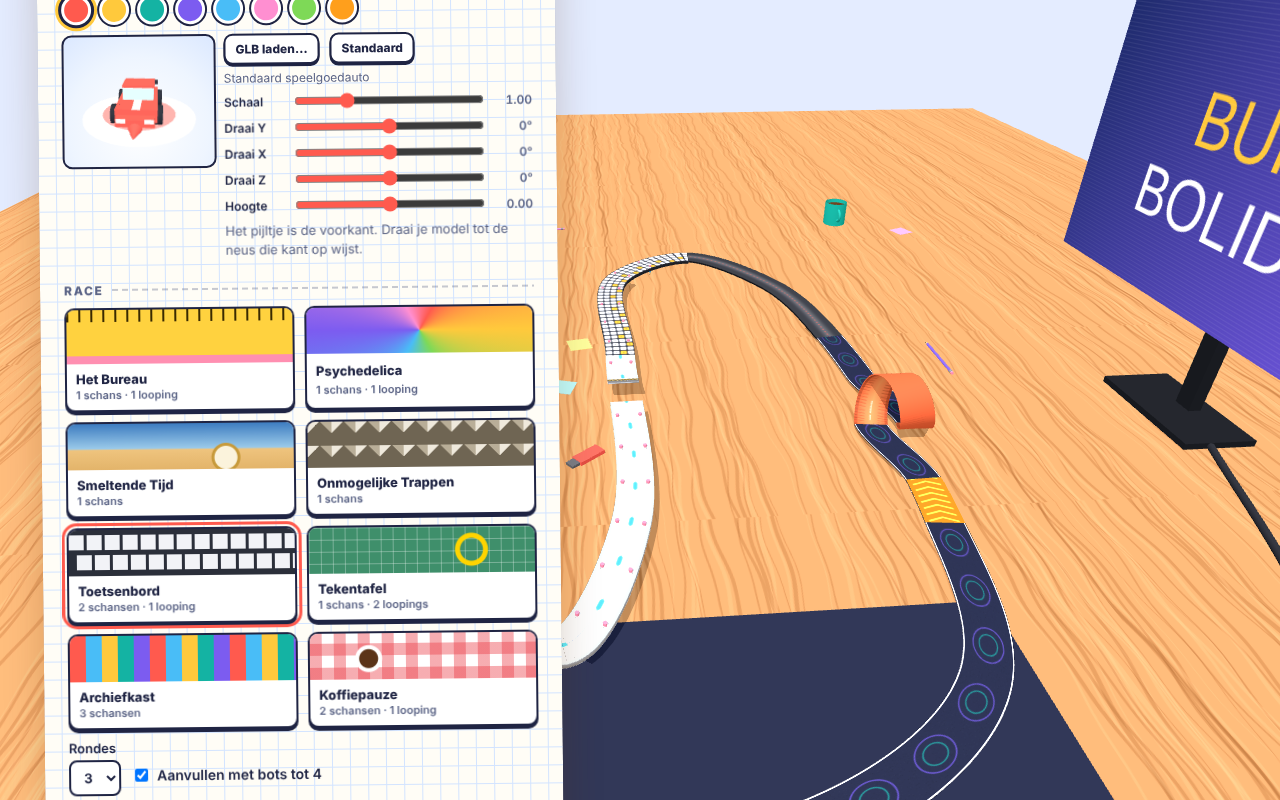
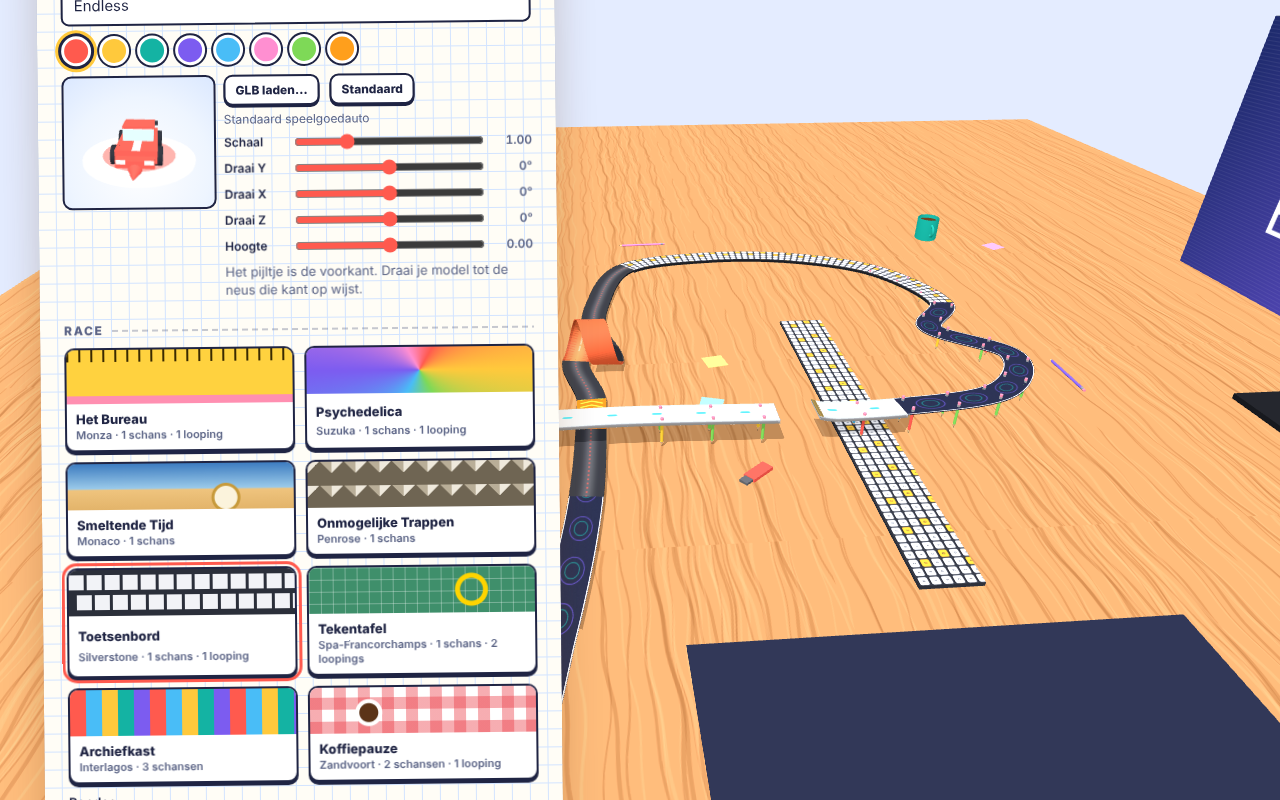
GP-circuits, rijden naast de baan en respawn in plaats van af
- Alle banen opnieuw uitgezet naar beroemde circuits (Monza, Suzuka,
  Monaco, Silverstone, Spa, Interlagos, Zandvoort) met eigen twists:
  schansen, loopings, hoogteverschillen en brug-kruisingen
- Naast de baan rijd je langzamer over bureau/vloer verder; R of na
  een paar seconden terug op de baan; afsnijden telt niet
- Alleen echte afgronden (bureaurand, Escher) laten je vallen; daarna
  respawn achter de plek waar het misging
- Decor schuift automatisch van de baan, geen pilaren door kruisingen
- README en screenshots bijgewerkt

Claude-Session: https://claude.ai/code/session_01NbUaQJ2w6SpyRCBNwXWAzY

diff --git a/index.html b/index.html
@@ -128,7 +128,7 @@ kbd{font-family:var(--body);font-weight:800;font-size:11px;border:2px solid var(
   <div class="hud-tl"><div id="hudPos">1<small>/4</small></div><div id="hudLap">RONDE 1/3</div><div id="hudTime">0:00.0</div></div>
   <ol id="hudList"></ol>
   <div class="hud-br"><span id="hudSpeed">0</span><small>km/u op schaal 1:64</small></div>
-  <div class="hud-bl"><kbd>C</kbd> camera · <kbd>M</kbd> geluid · <kbd>Esc</kbd> stoppen</div>
+  <div class="hud-bl"><kbd>C</kbd> camera · <kbd>R</kbd> terug · <kbd>M</kbd> geluid · <kbd>Esc</kbd> stoppen</div>
 </div>
 <div id="msg"><div id="msgBig"></div><div id="msgSmall"></div></div>
 <div id="toast" hidden></div>
@@ -154,7 +154,7 @@ kbd{font-family:var(--body);font-weight:800;font-size:11px;border:2px solid var(
 <div id="menu">
   <div class="card">
     <h1><span class="b1">Buro</span> <span class="b2">Bolides</span></h1>
-    <p class="tag">Racen met speelgoedautootjes over je bureau, met schansen en loopings op acht banen. Duw elkaar van de liniaal; wie van de baan rijdt is af, wie het eerst over de streep komt wint.</p>
+    <p class="tag">Racen met speelgoedautootjes over je bureau, met schansen en loopings op acht banen. Duw elkaar van de liniaal; naast de baan rijd je langzaam over het bureau, en wie in een afgrond valt komt een stuk terug weer op de baan. Wie het eerst over de streep komt wint.</p>
 
     <section aria-labelledby="h-car">
       <h2 id="h-car">Jouw bolide</h2>
@@ -224,9 +224,10 @@ kbd{font-family:var(--body);font-weight:800;font-size:11px;border:2px solid var(
         <kbd>← → / A D</kbd><span>Sturen</span>
         <kbd>Spatie</kbd><span>Handrem, driften en duwen</span>
         <kbd>C</kbd><span>Anamorfe blik of camera achter de auto</span>
+        <kbd>R</kbd><span>Naast de baan: terug op de baan</span>
         <kbd>Scroll</kbd><span>Inzoomen</span>
       </div>
-      <p class="muted" style="margin:0">Oranje pijlen geven een boost. Neem schansen met vaart, anders val je in het gat. In een looping heb je snelheid nodig om bovenin niet los te komen. De Escher-trap klopt alleen in de anamorfe blik: daar loopt hij eindeloos omhoog.</p>
+      <p class="muted" style="margin:0">Oranje pijlen geven een boost. Neem schansen met vaart, anders val je in het gat en sta je een stuk terug. In een looping heb je snelheid nodig om bovenin niet los te komen. De Escher-trap klopt alleen in de anamorfe blik: daar loopt hij eindeloos omhoog.</p>
     </section>
   </div>
 </div>
@@ -464,7 +465,8 @@ function buildTrackMeshes(T,L,group){
   if(k){get(k);const end=(b<M&&S[b].gap)?b-1:b;if(end>a)buildSlab(T,L,a,end,mats[k],group);}a=b;}
  T.mats=mats;
  const sStep=Math.max(1,Math.round((L.supportGap||14)/T.step));
- if(L.support)for(let j=0;j<M;j+=sStep){const s=S[j];if(s.gap||s.loop!=null)continue;const th=THEMES[L.themes[s.seg%L.themes.length]];const bot=s.p.y-th.thick;if(L.ground!=null&&bot-L.ground>.8)L.support(group,T,s,bot);}
+ const under=(s,j)=>{for(let k=0;k<M;k+=2){const d=Math.abs(k-j);if(Math.min(d,M-d)<30)continue;const q=S[k].p;if(q.y<s.p.y-2&&(q.x-s.p.x)**2+(q.z-s.p.z)**2<(T.hw*2+3)**2)return true;}return false;};
+ if(L.support)for(let j=0;j<M;j+=sStep){const s=S[j];if(s.gap||s.loop!=null||under(s,j))continue;const th=THEMES[L.themes[s.seg%L.themes.length]];const bot=s.p.y-th.thick;if(L.ground!=null&&bot-L.ground>.8)L.support(group,T,s,bot);}
  if(L.edgeDecor)for(let j=0;j<M;j+=Math.max(1,Math.round(5/T.step))){const s=S[j];if(s.gap||s.loop!=null)continue;L.edgeDecor(group,T,s,L.themes[s.seg%L.themes.length],j);}
  // finish, boostpads en schans-markering
  overlay(T,group,-1,2,new THREE.MeshStandardMaterial({map:canvasTex(256,64,drawFinish),roughness:.5,polygonOffset:true,polygonOffsetFactor:-2}),1);
@@ -482,6 +484,12 @@ function buildTrackMeshes(T,L,group){
  const banner=mesh(new THREE.BoxGeometry(T.hw*2+2.4,1.9,.25),[mat('#ffc93c'),mat('#ffc93c'),mat('#ffc93c'),mat('#ffc93c'),new THREE.MeshStandardMaterial({map:btex}),new THREE.MeshStandardMaterial({map:btex})],0,8.2,0);
  gate.add(banner);group.add(gate);
 }
+function declutter(group,T,from){const box=new THREE.Box3(),sz=V(),c=V();
+ for(let i=from;i<group.children.length;i++){const o=group.children[i];if(o.userData.keep)continue;box.setFromObject(o);if(box.isEmpty())continue;box.getSize(sz);box.getCenter(c);if(Math.max(sz.x,sz.z)>250)continue;
+  const r=Math.hypot(sz.x,sz.z)/2,y0=box.min.y,y1=box.max.y;
+  const hit=(x,z)=>{const rr=(r+T.hw+2)**2;for(let j=0;j<T.M;j+=2){const p=T.S[j].p;if((x-p.x)**2+(z-p.z)**2<rr&&y1>p.y-3.5&&y0<p.y+3)return true;}return false;};
+  if(!hit(c.x,c.z))continue;
+  let done=false;for(let rad=12;rad<300&&!done;rad+=12)for(let a=0;a<TAU&&!done;a+=TAU/20){const x=c.x+Math.cos(a)*rad,z=c.z+Math.sin(a)*rad;if(!hit(x,z)){o.position.x+=x-c.x;o.position.z+=z-c.z;done=true;}}}}
 function gapCenters(T){const out=[];let j=0;while(j<T.M){if(T.S[j].gap){let e=j;while(e<T.M&&T.S[e].gap)e++;const s=T.S[Math.floor((j+e)/2)];out.push({p:s.p.clone(),tan:s.tan.clone(),y:T.S[mod(j-1,T.M)].p.y,len:(e-j)*T.step});j=e;}else j++;}return out;}
 
 /* ---------- decor objects ---------- */
@@ -574,11 +582,11 @@ function buildDali(g,T,L){
  const sky=canvasTex(4,512,(c,w,h)=>{const gr=c.createLinearGradient(0,0,0,h);gr.addColorStop(0,'#2f6fb0');gr.addColorStop(.55,'#9ccbea');gr.addColorStop(1,'#ffd59a');c.fillStyle=gr;c.fillRect(0,0,w,h);},false);scene.background=sky;
  const st=canvasTex(256,256,drawSand);st.repeat.set(40,40);const ground=new THREE.Mesh(new THREE.PlaneGeometry(1200,1200),new THREE.MeshStandardMaterial({map:st,roughness:.95}));ground.rotation.x=-Math.PI/2;ground.receiveShadow=true;g.add(ground);
  // kliffen in de verte
- const R=rng(5);for(let i=0;i<9;i++){const m=mesh(new THREE.DodecahedronGeometry(20+R()*25,0),mat(['#d98a4a','#c4703a','#e9a35d'][i%3],{flatShading:true,roughness:.9}),180+R()*120,0,-260+i*50-R()*20);m.scale.set(1.4,.6+R()*.7,1);g.add(m);}
+ const R=rng(5);for(let i=0;i<9;i++){const m=mesh(new THREE.DodecahedronGeometry(20+R()*25,0),mat(['#d98a4a','#c4703a','#e9a35d'][i%3],{flatShading:true,roughness:.9}),320+R()*120,0,-260+i*50-R()*20);m.scale.set(1.4,.6+R()*.7,1);g.add(m);}
  const clocks=[];
  // sokkels met smeltende klokken (binnen de lus, laag)
  [[-12,-8],[22,10],[-38,8]].forEach((p,i)=>{const pl=mesh(new THREE.BoxGeometry(10,4+i,8),mat('#d9b27c',{roughness:.85}),p[0],(4+i)/2,p[1]);g.add(pl);const c=makeMeltingClock(12,-20,2,1.2);c.mesh.position.set(p[0]+3,4+i+.05,p[1]);c.mesh.rotation.y=i*.7;g.add(c.mesh);clocks.push(c);});
- gapCenters(T).forEach(gc=>{const pl=mesh(new THREE.BoxGeometry(7,1,7),mat('#d9b27c',{roughness:.85}),gc.p.x,.5,gc.p.z);g.add(pl);const c=makeMeltingClock(10,-3.5,3.5,1);c.mesh.position.set(gc.p.x,1.05,gc.p.z);c.mesh.rotation.y=Math.atan2(gc.tan.x,gc.tan.z);g.add(c.mesh);clocks.push(c);});
+ gapCenters(T).forEach(gc=>{const pl=mesh(new THREE.BoxGeometry(7,1,7),mat('#d9b27c',{roughness:.85}),gc.p.x,.5,gc.p.z);pl.userData.keep=true;g.add(pl);const c=makeMeltingClock(10,-3.5,3.5,1);c.mesh.position.set(gc.p.x,1.05,gc.p.z);c.mesh.rotation.y=Math.atan2(gc.tan.x,gc.tan.z);c.mesh.userData.keep=true;g.add(c.mesh);clocks.push(c);});
  // dode boom met klok over de tak
  const tree=new THREE.Group();tree.position.set(170,0,-110);tree.add(mesh(new THREE.CylinderGeometry(.9,1.6,20,8),mat('#5b3b22',{roughness:.95}),0,10,0));const br=mesh(new THREE.CylinderGeometry(.45,.7,16,7),mat('#5b3b22'),-6,18,0);br.rotation.z=Math.PI/2.3;tree.add(br);
  const tc=makeMeltingClock(9,-.7,.7,.9);tc.mesh.position.set(-7,19.4,0);tc.mesh.rotation.y=Math.PI/2;tree.add(tc.mesh);clocks.push(tc);g.add(tree);
@@ -589,12 +597,12 @@ function buildDali(g,T,L){
   e.add(mesh(new THREE.BoxGeometry(3,10,3),mat('#e9a35d'),0,legH+13,0));e.position.set(x,0,z);e.rotation.y=ry;g.add(e);};
  ele(170,-170,-.8);ele(230,-120,-1.2);
  // staande klok met slinger over de baan
- buildGrandfather(g,T,6);
+ buildGrandfather(g,T,L.tunnelSeg||6);
  L._dali={clocks};
 }
 function buildGrandfather(g,T,segIdx){
  const js=[];for(let j=0;j<T.M;j++)if(T.S[j].seg===segIdx)js.push(j);const s=T.S[js[Math.floor(js.length/2)]];const p=s.p;
- const root=new THREE.Group();root.position.set(p.x,0,p.z);root.rotation.y=Math.atan2(s.tan.x,s.tan.z);g.add(root);
+ const root=new THREE.Group();root.userData.keep=true;root.position.set(p.x,0,p.z);root.rotation.y=Math.atan2(s.tan.x,s.tan.z);g.add(root);
  const wood=mat('#8a3f22',{roughness:.5,transparent:true}),gold=mat('#e3b33d',{metalness:.6,roughness:.3,transparent:true});const fade=[wood,gold];
  const px=T.hw+1.7;for(const sx of[-1,1]){root.add(mesh(new THREE.BoxGeometry(2.8,24,6),wood,sx*px,12,0));root.add(mesh(new THREE.BoxGeometry(3.4,1.2,6.6),gold,sx*px,.6,0));}
  root.add(mesh(new THREE.BoxGeometry(2*px+4,10,7),wood,0,29,0));root.add(mesh(new THREE.BoxGeometry(2*px+5,1.2,8),gold,0,34.6,0));
@@ -692,8 +700,8 @@ function makeCookie(r=4,col='#e9b86a'){const m=mesh(new THREE.CylinderGeometry(r
 function buildKoffie(g,T,L){
  const gt=canvasTex(256,256,drawGingham);gt.repeat.set(24,18);const fl=new THREE.Mesh(new THREE.PlaneGeometry(900,640),new THREE.MeshStandardMaterial({map:gt,roughness:.95}));fl.rotation.x=-Math.PI/2;fl.receiveShadow=true;g.add(fl);
  const gcs=gapCenters(T);
- if(gcs[0]){const mug=shadowAll(makeMug());mug.position.set(gcs[0].p.x,0,gcs[0].p.z);mug.rotation.y=Math.atan2(gcs[0].tan.x,gcs[0].tan.z);g.add(mug);}
- if(gcs[1]){for(let k=0;k<3;k++){const w=new THREE.Mesh(new THREE.CylinderGeometry(6,6,.8,32),[mat('#c9853f'),new THREE.MeshStandardMaterial({map:themeTex('waffle')}),new THREE.MeshStandardMaterial({map:themeTex('waffle')})]);w.position.set(gcs[1].p.x+(k-1)*.6,.4+k*.85,gcs[1].p.z);w.castShadow=w.receiveShadow=true;g.add(w);}}
+ if(gcs[0]){const mug=shadowAll(makeMug());mug.position.set(gcs[0].p.x,0,gcs[0].p.z);mug.rotation.y=Math.atan2(gcs[0].tan.x,gcs[0].tan.z);mug.userData.keep=true;g.add(mug);}
+ if(gcs[1]){for(let k=0;k<3;k++){const w=new THREE.Mesh(new THREE.CylinderGeometry(6,6,.8,32),[mat('#c9853f'),new THREE.MeshStandardMaterial({map:themeTex('waffle')}),new THREE.MeshStandardMaterial({map:themeTex('waffle')})]);w.position.set(gcs[1].p.x+(k-1)*.6,.4+k*.85,gcs[1].p.z);w.castShadow=w.receiveShadow=true;w.userData.keep=true;g.add(w);}}
  const tp=new THREE.Group();tp.position.set(175,0,-120);const tm=mat('#14b3a3',{roughness:.3});const body=mesh(new THREE.SphereGeometry(14,28,20),tm,0,13,0);body.scale.y=.85;tp.add(body);
  const sp=mesh(new THREE.CylinderGeometry(1.2,2.4,14,12),tm,-15,16,0);sp.rotation.z=.9;tp.add(sp);const hd=mesh(new THREE.TorusGeometry(6,1.3,10,20,Math.PI*1.3),tm,14,15,0);hd.rotation.z=-Math.PI*.65;tp.add(hd);
  tp.add(mesh(new THREE.SphereGeometry(2,14,10),mat('#ffc93c'),0,26,0));shadowAll(tp);g.add(tp);
@@ -704,31 +712,31 @@ function buildKoffie(g,T,L){
 }
 
 const LEVELS=[
- {key:'desk',name:'Het Bureau',width:10,ground:0,zoom:50,bg:'#ffe6c4',hemi:['#fff6e8','#c99a63',.85],sunI:.95,supportGap:16,
-  pts:[[-60,70,.35],[-10,70,.35,{loop:7.5,at:40}],[70,70,.35],[110,55,1.2],[132,20,2.2],[132,-20,2.2],[116,-56,3.5],[80,-76,4.5,{jump:11,at:15}],[20,-76,3],[-20,-76,1],[-62,-62,.4],[-96,-32,.12],[-112,5,.12],[-102,40,.12],[-86,64,.35]],
-  themes:['ruler','ruler','ruler','eraser','calc','calc','geo','tape','tape','checker','checker','coaster','news','notebook','ruler'],build:buildDesk,support:deskSupport},
- {key:'psy',name:'Psychedelica',width:10,ground:-3,zoom:58,bg:'#ffd6f5',hemi:['#ffffff','#b48cff',.95],sunI:.75,loopTheme:'psyB',supportGap:16,
-  pts:[[-60,-60,2],[-25,-25,5,{jump:13,at:29}],[25,25,9.5],[60,60,13],[95,85,13],[140,72,11],[162,28,9],[152,-30,7],[118,-70,4.5],[78,-78,2.5],[40,-40,2],[-10,10,2],[-75,75,2],[-120,85,2],[-160,58,2,{loop:8,at:40}],[-160,-22,2],[-135,-62,2],[-98,-78,2]],
+ {key:'desk',gp:'Monza',name:'Het Bureau',width:10,ground:0,zoom:50,bg:'#ffe6c4',hemi:['#fff6e8','#c99a63',.85],sunI:.95,supportGap:16,
+  pts:[[-150,90,0.35],[-150,40,0.35,{loop:8,at:40}],[-150,-75,0.35],[-148,-102,0.35],[-132,-114,0.35],[-128,-134,0.35],[-105,-160,1],[-55,-175,1.5],[-10,-172,2],[5,-162,2],[20,-174,2],[60,-168,2.5],[90,-140,3],[100,-100,4],[102,-30,6,{jump:12,at:22}],[100,40,4],[92,70,3],[106,90,2.5],[85,112,2],[40,120,1.5],[-40,125,4],[-95,140,7],[-135,125,5],[-150,112,1.5]],
+  themes:['ruler','ruler','ruler','eraser','eraser','eraser','calc','calc','geo','geo','geo','tape','tape','checker','checker','checker','coaster','coaster','news','news','notebook','notebook','ruler','ruler'],build:buildDesk,support:deskSupport},
+ {key:'psy',gp:'Suzuka',name:'Psychedelica',width:10,ground:-3,groundSize:[1000,1000],zoom:58,bg:'#ffd6f5',hemi:['#ffffff','#b48cff',.95],sunI:.75,loopTheme:'psyB',supportGap:16,
+  pts:[[-95,85,3],[-125,85,3,{loop:8,at:35}],[-215,85,3],[-245,66,3.5],[-256,30,4],[-234,0,5],[-250,-30,6],[-228,-58,7],[-242,-88,8],[-214,-118,8.5],[-168,-128,8],[-125,-112,6],[-70,-72,3.5],[-20,-36,3],[30,0,3],[70,30,3.5],[105,60,4],[135,45,4.5],[150,10,6],[148,-40,8],[125,-85,10],[90,-95,11],[60,-70,12,{jump:12,at:68}],[-5,25,10],[-28,50,7],[-48,66,5],[-70,78,4]],
   themes:['psyA','psyB','psyC'],build:buildPsy,support:psySupport,update:updPsy},
- {key:'dali',name:'Smeltende Tijd',width:10,ground:0,zoom:54,bg:'#9ccbea',hemi:['#fff2d8','#d9a35d',.8],sunI:1.05,supportGap:14,
-  pts:[[-55,70,.6],[30,72,.6],[95,58,1.5],[130,18,3],[125,-35,4],[85,-75,2.5],[20,-85,.6],[-50,-85,.6],[-105,-60,2],[-135,-15,3,{jump:11,at:18}],[-135,45,1.5],[-110,70,1]],
-  themes:['path','clock','branch','clock','path','path','path','branch','clock','path','clock','path'],build:buildDali,support:daliSupport,edgeDecor:daliEdge,update:updDali},
- {key:'escher',name:'Onmogelijke Trappen',width:10,ground:null,zoom:60,bg:'#e9e1cf',hemi:['#fffaf0','#8e8676',.9],sunI:.8,D:[-12,12,12],
+ {key:'dali',gp:'Monaco',tunnelSeg:16,name:'Smeltende Tijd',width:10,ground:0,groundSize:[1200,1200],zoom:54,bg:'#9ccbea',hemi:['#fff2d8','#d9a35d',.8],sunI:1.05,supportGap:14,
+  pts:[[-80,90,0.6],[-20,92,0.6],[25,86,0.6],[48,62,1.2],[55,25,2.5],[45,-12,4],[58,-48,5],[92,-58,4.5],[115,-35,3.5],[112,0,2.5],[118,28,2],[138,38,2],[152,15,2],[150,-15,2.2],[168,-35,2.5],[190,-20,2.2],[195,20,1.6],[195,110,0.8],[185,140,0.6],[165,150,0.6],[140,162,0.6],[100,162,0.6,{jump:11,at:14}],[30,162,0.6],[10,150,0.6],[-20,160,0.6],[-75,158,0.6],[-100,130,0.6],[-105,100,0.6]],
+  themes:['path','path','path','clock','clock','branch','branch','branch','clock','clock','branch','branch','branch','path','path','path','path','clock','path','path','path','path','path','clock','clock','path','path','path'],build:buildDali,support:daliSupport,edgeDecor:daliEdge,update:updDali},
+ {key:'escher',gp:'Penrose',name:'Onmogelijke Trappen',width:10,ground:null,zoom:60,bg:'#e9e1cf',hemi:['#fffaf0','#8e8676',.9],sunI:.8,D:[-12,12,12],
   pts:(()=>{const B=[[0,62],[30,62],[56,56],[62,30],[62,0],[62,-30],[56,-56],[30,-62],[0,-62],[-30,-62],[-56,-56],[-62,-30],[-62,0],[-62,30],[-56,56],[-30,62]];const N=B.length,D=[-12,12,12];
    return B.map((b,i)=>{const p=[b[0]+D[0]*i/N,b[1]+D[2]*i/N,8+D[1]*i/N];if(i===3)p.push({jump:9,at:18});return p;});})(),
   themes:['stairs'],build:buildEscher,update:updEscher},
- {key:'keys',name:'Toetsenbord',width:10,ground:0,zoom:52,bg:'#e4ecff',hemi:['#f4f8ff','#8a7a66',.9],sunI:.9,supportGap:16,
-  pts:[[-90,76,1.5],[-40,76,1.5,{jump:11,at:16}],[50,76,1.5],[100,68,1.5],[132,35,2],[132,-25,2],[105,-68,2],[55,-80,2,{loop:8,at:42}],[-45,-80,2],[-95,-68,2.5],[-125,-38,3.5],[-100,-5,5],[-30,-2,6,{jump:10,at:20}],[55,0,5],[92,17,4.5],[60,36,4],[-60,36,3],[-115,50,2],[-112,72,1.5]],
-  themes:['keys','keys','keys','keys','pad','pad','pad','pad','cable','cable','keys','keys','mouse','mouse','pad','keys','keys','keys','keys'],build:buildKeys,support:deskSupport},
- {key:'draw',name:'Tekentafel',width:10,ground:0,zoom:52,bg:'#e8f1fb',hemi:['#ffffff','#7da0c9',.9],sunI:.9,loopTheme:'rolmaat',supportGap:16,
-  pts:[[-95,62,.3],[-45,62,.3,{loop:8,at:32}],[60,62,.3],[112,45,.3],[140,5,.5],[132,-40,1.5],[98,-70,2.5],[40,-82,3,{jump:11,at:14}],[-35,-82,1.5],[-90,-72,.5],[-132,-35,.3],[-132,5,.3,{loop:8,at:0}],[-132,45,.3]],
-  themes:['blue','blue','rolmaat','blue','blue','blue','ruler','ruler','blue','blue','rolmaat','rolmaat','blue'],build:buildDraw,support:deskSupport},
- {key:'arch',name:'Archiefkast',width:10,ground:0,zoom:58,bg:'#dfe6f2',hemi:['#ffffff','#5d6c8a',.85],sunI:.95,supportGap:9,
-  pts:[[-90,55,8],[-40,55,8,{jump:12,at:16}],[50,55,7],[100,40,7],[126,0,9],[110,-42,11],[70,-62,12,{jump:13,at:12,kick:.4}],[-10,-64,10],[-62,-60,8],[-100,-40,6],[-122,-12,5,{jump:10,at:12}],[-118,40,6]],
-  themes:['binder','binder','binder','binder','metal','binder','metal','binder','binder','binder','binder','binder'],build:buildArch,support:binderSupport},
- {key:'koffie',name:'Koffiepauze',width:10,ground:0,zoom:54,bg:'#fff1e0',hemi:['#fff8ee','#c98d4f',.9],sunI:1,loopTheme:'metal',supportGap:12,
-  pts:[[-90,62,8],[-30,62,13,{jump:12,at:20}],[60,62,12],[110,42,10],[132,2,8],[115,-45,6],[75,-78,4],[15,-78,3,{loop:7.5,at:0}],[-45,-78,3],[-95,-62,4],[-125,-25,5,{jump:10,at:14}],[-125,35,6]],
-  themes:['napkin','waffle','waffle','waffle','biscuit','biscuit','metal','metal','napkin','napkin','waffle','napkin'],build:buildKoffie,support:sugarSupport},
+ {key:'keys',gp:'Silverstone',name:'Toetsenbord',width:10,ground:0,zoom:52,bg:'#e4ecff',hemi:['#f4f8ff','#8a7a66',.9],sunI:.9,supportGap:16,
+  pts:[[-80,110,1.5],[-30,110,1.5],[30,110,1.5],[60,118,1.5],[90,110,1.5],[118,118,1.8],[132,95,2],[112,78,2],[80,70,2],[30,62,2],[-50,58,2,{loop:8,at:0}],[-100,55,2],[-140,40,2.5],[-150,0,3],[-145,-40,3.5],[-125,-75,4],[-85,-90,5],[-60,-75,6],[-35,-95,7],[-10,-80,8],[0,-40,9,{jump:11,at:30}],[0,60,10],[2,120,8],[10,160,4],[-20,180,2.5],[-60,180,2],[-90,170,2],[-110,140,1.5],[-105,115,1.5]],
+  themes:['keys','keys','keys','keys','keys','pad','pad','pad','pad','cable','cable','cable','keys','keys','keys','keys','pad','pad','pad','pad','mouse','mouse','mouse','keys','keys','keys','keys','keys','keys'],build:buildKeys,support:deskSupport},
+ {key:'draw',gp:'Spa-Francorchamps',name:'Tekentafel',width:10,ground:0,zoom:52,bg:'#e8f1fb',hemi:['#ffffff','#7da0c9',.9],sunI:.9,loopTheme:'rolmaat',supportGap:16,
+  pts:[[-150,70,0.3],[-150,10,0.3],[-152,-28,0.3],[-136,-50,0.3],[-118,-32,0.5],[-112,5,0.3],[-104,38,0.3],[-86,52,2],[-62,38,6,{jump:11,at:12}],[-5,30,8],[50,30,9,{loop:8,at:5}],[125,30,10],[160,45,10],[170,75,9],[192,95,8.5],[205,130,8],[182,145,7.5],[150,110,7],[118,118,6],[100,150,5],[78,178,4],[40,192,2.5],[-10,194,0.3,{loop:8,at:25}],[-100,190,0.3],[-128,178,0.3],[-138,165,0.3],[-128,152,0.3],[-148,128,0.3]],
+  themes:['blue','blue','blue','blue','blue','blue','blue','ruler','ruler','rolmaat','rolmaat','rolmaat','blue','blue','blue','blue','blue','blue','blue','blue','blue','blue','rolmaat','blue','blue','blue','blue','blue'],build:buildDraw,support:deskSupport},
+ {key:'arch',gp:'Interlagos',name:'Archiefkast',width:10,ground:0,zoom:58,bg:'#dfe6f2',hemi:['#ffffff','#5d6c8a',.85],sunI:.95,supportGap:9,
+  pts:[[60,-110,11],[0,-115,12,{jump:12,at:20}],[-60,-110,12],[-95,-95,10],[-102,-62,8.5],[-122,-32,7.5],[-112,18,6.5],[-80,58,6],[-30,75,6],[40,76,6,{jump:13,at:15,kick:0.4}],[125,72,6],[158,45,6.5],[162,5,7],[138,-22,7.5],[98,-18,8],[70,10,8],[30,30,7],[-5,15,6.5],[-15,-15,7],[15,-35,8,{jump:10,at:20}],[70,-50,9],[110,-70,10],[115,-100,10.5]],
+  themes:['binder','metal','binder','binder','binder','binder','binder','binder','binder','metal','binder','binder','binder','binder','binder','binder','binder','binder','binder','metal','binder','binder','binder'],build:buildArch,support:binderSupport},
+ {key:'koffie',gp:'Zandvoort',name:'Koffiepauze',width:10,ground:0,zoom:54,bg:'#fff1e0',hemi:['#fff8ee','#c98d4f',.9],sunI:1,loopTheme:'metal',supportGap:12,
+  pts:[[-120,80,12],[-70,80,13,{jump:12,at:24}],[20,80,12.5,{loop:8,at:35}],[100,80,12],[132,60,12],[118,35,11.5],[80,38,11],[40,25,10],[-30,22,8.5],[-80,30,7.5],[-102,10,7],[-85,-12,7],[-30,-15,8],[20,-20,10],[70,-45,13],[80,-80,15],[45,-105,15],[0,-100,15],[-60,-90,14,{jump:11,at:20}],[-130,-70,12],[-160,-30,11],[-160,20,11],[-145,60,11.5]],
+  themes:['napkin','waffle','waffle','napkin','biscuit','biscuit','waffle','waffle','napkin','napkin','biscuit','biscuit','napkin','napkin','waffle','waffle','waffle','waffle','metal','napkin','napkin','napkin','napkin'],build:buildKoffie,support:sugarSupport},
 ];
 LEVELS.forEach(L=>{L.jumps=L.pts.filter(p=>p[3]&&p[3].jump).length;L.loops=L.pts.filter(p=>p[3]&&p[3].loop).length;});
 
@@ -739,7 +747,7 @@ function loadLevel(i){
  if(levelGroup){scene.remove(levelGroup);disposeGroup(levelGroup);}
  obstacles=[];const L=LEVELS[i];level=L;levelIdx=i;levelGroup=new THREE.Group();scene.add(levelGroup);
  scene.background=new THREE.Color(L.bg);hemi.color.set(L.hemi[0]);hemi.groundColor.set(L.hemi[1]);hemi.intensity=L.hemi[2];sun.intensity=L.sunI;
- track=buildTrack(L);buildTrackMeshes(track,L,levelGroup);L.build(levelGroup,track,L);
+ track=buildTrack(L);buildTrackMeshes(track,L,levelGroup);const n0=levelGroup.children.length;L.build(levelGroup,track,L);declutter(levelGroup,track,n0);
 }
 
 /* =========================================================
@@ -765,7 +773,7 @@ const ST=['run','fall','out','fin'];
 class Car{
  constructor(r,local,slot){
   Object.assign(this,{id:r.id,name:r.name,color:r.color,bot:!!r.bot,local,slot});
-  this.pos=V();this.vel=V();this.yaw=0;this.y=0;this.ty=0;this.vy=0;this.speed=0;this.lap=0;this.cp=true;this.state='run';this.lat=0;this.slope=0;this.slopeF=0;this.pitch=0;this.fallT=0;this.finT=0;this.spin=0;this.mode='ground';this.boost=0;this.airT=0;this.relYaw=0;this.ls=0;this.loopId=0;this.LF=null;
+  this.pos=V();this.vel=V();this.yaw=0;this.y=0;this.ty=0;this.vy=0;this.speed=0;this.lap=0;this.cp=true;this.state='run';this.lat=0;this.slope=0;this.slopeF=0;this.pitch=0;this.fallT=0;this.finT=0;this.spin=0;this.mode='ground';this.off=false;this.offJ=null;this.offD=0;this.offT=0;this.nearJ=0;this.boost=0;this.airT=0;this.relYaw=0;this.ls=0;this.loopId=0;this.LF=null;
   this.skill=.86+Math.random()*.1;this.aggr=Math.random()<.55?.65:0;this.lane=0;this.laneT=0;
   const T=track,row=Math.floor(slot/2),col=slot%2;const j=-(5+row*6+(col?2:0));const p=sampleP(T.S,j,T.M,T.D),s=T.S[mod(j,T.M)];const lat=(col?1:-1)*T.hw*.42;
   this.pos.set(p.x+s.r.x*lat,0,p.z+s.r.z*lat);this.y=this.ty=p.y;this.j=j;this.yaw=Math.atan2(s.tan.x,s.tan.z);
@@ -782,13 +790,42 @@ const G_AIR=30,G_LOOP=30,BOOST_T=1.6;
 const _m4=new THREE.Matrix4(),_q=new THREE.Quaternion(),_Y=V(0,1,0);
 function frameAt(si){const T=track;const i=Math.floor(si),f=si-i;const A=T.S[mod(i,T.M)],B=T.S[mod(i+1,T.M)];
  return{p:sampleP(T.S,i,T.M,T.D).lerp(sampleP(T.S,i+1,T.M,T.D),f),T:A.T.clone().lerp(B.T,f).normalize(),U:A.U.clone().lerp(B.U,f).normalize(),R:A.R.clone().lerp(B.R,f).normalize()};}
+function snapFin(car){const T=track;let j=car.j;while(T.S[mod(j,T.M)].gap||T.S[mod(j,T.M)].loop!=null)j++;const p=sampleP(T.S,j,T.M,T.D),s=T.S[mod(j,T.M)];
+ car.j=j;car.pos.set(p.x,0,p.z);car.y=car.ty=p.y;car.vy=0;car.mode='ground';car.off=false;car.snap=true;car.yaw=Math.atan2(s.tan.x,s.tan.z);car.vel.set(0,0,0);}
+// afgrond: echt niets onder je -> val en respawn
 function failCar(car,why,vy=2){
- if(car.state==='fin'){const T=track;let j=car.j;while(T.S[mod(j,T.M)].gap||T.S[mod(j,T.M)].loop!=null)j++;const p=sampleP(T.S,j,T.M,T.D),s=T.S[mod(j,T.M)];
-  car.j=j;car.pos.set(p.x,0,p.z);car.y=car.ty=p.y;car.vy=0;car.mode='ground';car.snap=true;car.yaw=Math.atan2(s.tan.x,s.tan.z);car.vel.set(0,0,0);return;}
- car.state='fall';car.mode='ground';car.vy=vy;car.fallT=0;car.why=why;if(car===myCar)sfxFall();}
+ if(car.state==='fin'){snapFin(car);return;}
+ car.state='fall';car.mode='ground';car.off=false;car.vy=vy;car.fallT=0;car.why=why;if(car===myCar)sfxFall();}
+// ondergrond naast de baan (bureau, vloer, tafelkleed); null = afgrond
+function groundAt(x,z){const L=level;if(L.ground==null)return null;const gs=L.groundSize||[900,640];if(Math.abs(x)>gs[0]/2||Math.abs(z)>gs[1]/2)return null;return L.ground;}
+function leaveTrack(car){if(car.state==='fin'){snapFin(car);return;}
+ if(car.offJ==null)car.offJ=car.j;car.offD=0;car.offT=0;const gy=groundAt(car.pos.x,car.pos.z);
+ if(gy!=null&&car.y-gy<=.7){car.off=true;car.y=car.ty=gy;}else{car.mode='air';car.vy=Math.min(car.vy||0,0);car.airT=0;}}
+function respawnJ(j){const T=track;let k=j;const s=T.S[mod(k,T.M)];
+ if(s.loop!=null)k=T.loops[s.loop].a-Math.round(60/T.step);
+ else if(s.gap){while(T.S[mod(k,T.M)].gap)k--;k-=Math.round(20/T.step);}
+ while(T.S[mod(k,T.M)].gap||T.S[mod(k,T.M)].loop!=null||T.S[mod(k,T.M)].lip)k--;return k;}
+function respawnCar(car,msgBig){const T=track;const k=respawnJ(car.offJ!=null?car.offJ:car.j);const p=sampleP(T.S,k,T.M,T.D),s=T.S[mod(k,T.M)];
+ car.state='run';car.mode='ground';car.off=false;car.offJ=null;car.j=k;car.pos.set(p.x,0,p.z);car.y=car.ty=p.y;car.vy=0;car.vel.set(0,0,0);car.speed=0;car.boost=0;car.spin=0;car.pitch=0;car.LF=null;
+ car.yaw=Math.atan2(s.tan.x,s.tan.z);car.lat=0;car.snap=true;car.inv=2;car.fallT=0;
+ if(car===myCar){showMsg(msgBig||'AFGROND!',(car.why||'Je viel in het niets')+' · terug op de baan',1800);shake=.3;}}
+function offroadFollow(car,dt){const T=track;car.offT+=dt;car.offD+=Math.abs(car.speed)*dt;
+ const gy=groundAt(car.pos.x,car.pos.z);
+ if(gy==null){car.off=false;car.mode='air';car.vy=0;car.airT=0;return;}
+ car.y=car.ty=gy;car.slopeF=0;car.pitch=0;
+ let best=0,bd=1e18;for(let j=0;j<T.M;j++){const p=T.S[j].p;const dx=car.pos.x-p.x,dz=car.pos.z-p.z,dy=(p.y-gy)*1.5;const d=dx*dx+dz*dz+dy*dy;if(d<bd){bd=d;best=j;}}
+ car.nearJ=best;const s=T.S[best];
+ if(!s.gap&&s.loop==null&&!s.lip){const lat=(car.pos.x-s.p.x)*s.r.x+(car.pos.z-s.p.z)*s.r.z;
+  if(Math.abs(lat)<=T.hw-.3&&s.p.y-gy<=1.1){const M=T.M;const jn=best+Math.round((car.offJ-best)/M)*M;
+   if(jn-car.offJ>car.offD/T.step+25){car.why='Afsnijden telt niet';respawnCar(car,'AFGESNEDEN!');return;}
+   const oK=Math.floor(car.offJ/M),nK=Math.floor(jn/M);if(nK>oK&&car.cp){car.lap++;car.cp=false;onLap(car);}else if(nK<oK){car.lap=Math.max(0,car.lap-1);car.cp=true;}
+   car.off=false;car.offJ=null;car.j=jn;car.lat=lat;car.y=car.ty=s.p.y;car.snap=true;return;}}
+ if(car.offT>(car.bot?3:6)){car.why='Te lang naast de baan';respawnCar(car,'TERUG!');}
+}
 function stepCar(car,inp,dt){
+ if(car.inv>0)car.inv-=dt;
  if(car.state==='fall'){car.vy-=42*dt;car.pos.x+=car.vel.x*dt;car.pos.z+=car.vel.z*dt;car.y+=car.vy*dt;car.fallT+=dt;car.spin+=dt*6;
-  if(car.fallT>1.5){car.state='out';car.outProg=progress(car);if(car===myCar)showMsg('AF!',car.why||'Je bent van de baan gereden',2400);}return;}
+  if(car.fallT>1.5)respawnCar(car);return;}
  if(car.state==='out')return;
  if(car.boost>0)car.boost-=dt;
  if(car.mode==='loop'){stepLoop(car,inp,dt);return;}
@@ -797,8 +834,9 @@ function stepCar(car,inp,dt){
  let f=car.vel.dot(fwd),l=car.vel.dot(right);const thr=inp.throttle;const f0=f;
  if(thr>0)f+=(f<-.5?BRAKE:ACC)*thr*dt;else if(thr<0)f+=(f>.5?-BRAKE:-ACC*.6)*(-thr)*dt;
  if(car.boost>0)f+=60*dt;
+ if(car.off){car.boost=0;f-=f*1.4*dt;}
  f-=car.slopeF*16*dt;f-=f*.3*dt;if(thr===0&&!(car.boost>0))f-=Math.sign(f)*Math.min(Math.abs(f),5*dt);
- const maxS=car.boost>0?MAXS*1.35:MAXS*(car.state==='fin'?.6:1);
+ const maxS=car.off?MAXS*.42:car.boost>0?MAXS*1.35:MAXS*(car.state==='fin'?.6:1);
  if(f>maxS)f=Math.max(maxS,Math.min(f,f0)-14*dt);if(f<-11)f=-11;
  const grip=inp.drift?1.4:7.5;l*=Math.exp(-grip*dt);
  const sa=clamp(Math.abs(f)/6,0,1)*(1-Math.min(1,Math.abs(f)/MAXS)*.3)*(f<0?-1:1);car.yaw-=inp.steer*STEER*sa*(inp.drift?1.25:1)*dt;
@@ -815,7 +853,7 @@ function stepLoop(car,inp,dt){
  const N=v*v/lp.rad+G_LOOP*F.U.y;
  if(car.state==='fin'){car.lat=clamp(car.lat,-T.hw+1,T.hw-1);if(v<8)v=8;}
  else if(N<0||Math.abs(car.lat)>T.hw){F=frameAt(car.ls);const P=F.p.clone().addScaledVector(F.R,car.lat);car.pos.set(P.x,0,P.z);car.y=P.y;car.vel.set(F.T.x*v,0,F.T.z*v);car.speed=v;car.LF=null;
-  failCar(car,N<0?'Te langzaam voor de looping':'Uit de looping gestuurd',F.T.y*v);return;}
+  if(car.offJ==null)car.offJ=car.j;car.mode='air';car.vy=F.T.y*v;car.airT=0;car.offD=0;car.offT=0;car.why=N<0?'Te langzaam voor de looping':'Uit de looping gestuurd';if(car===myCar)showMsg('',car.why,1500);return;}
  car.speed=v;
  if(car.ls>=lp.b||car.ls<lp.a-1){const jj=car.ls>=lp.b?lp.b:lp.a-1;F=frameAt(jj);const s=T.S[mod(jj,T.M)];
   car.mode='ground';car.j=jj;car.yaw=Math.atan2(s.tan.x,s.tan.z)+car.relYaw;const P=F.p.clone().addScaledVector(F.R,car.lat);car.pos.set(P.x,0,P.z);car.y=car.ty=P.y;
@@ -841,10 +879,11 @@ function trackFollow(car){
   car.pitch=Math.atan(car.slopeF);
   if(s.boost&&Math.abs(car.lat)<T.hw){if(!(car.boost>.3)&&car===myCar)sfxBoost();car.boost=BOOST_T;}
  }else if(car.mode==='air'){
-  if(!s.gap&&s.loop==null&&car.y<=car.ty+.05){
-   if(car.y<car.ty-1.3||Math.abs(car.lat)>T.hw)failCar(car,car.y<car.ty-1.3?'Te langzaam van de schans':'Naast de baan geland',Math.min(car.vy,0));
-   else{car.mode='ground';car.y=car.ty;car.vy=0;car.vel.multiplyScalar(.93);if(car===myCar){sfxLand();shake=.45;}}}
-  else if(car.airT>3.5||(s.gap&&car.y<car.ty-4))failCar(car,'Te langzaam van de schans',car.vy);
+  const overTrack=!s.gap&&s.loop==null&&Math.abs(car.lat)<=T.hw;
+  if(overTrack&&car.y<=car.ty+.05&&car.y>=car.ty-1.3){car.mode='ground';car.off=false;car.offJ=null;car.y=car.ty;car.vy=0;car.vel.multiplyScalar(.93);if(car===myCar){sfxLand();shake=.45;}}
+  else{const gy=groundAt(car.pos.x,car.pos.z);
+   if(gy!=null&&car.y<=gy){if(car.state==='fin'){snapFin(car);return;}if(car.offJ==null)car.offJ=car.j;car.mode='ground';car.off=true;car.y=car.ty=gy;car.vy=0;car.offD=0;car.offT=0;car.vel.multiplyScalar(.6);if(car===myCar){sfxLand();shake=.5;showMsg('','Naast de baan · rij terug of druk R',1600);}}
+   else if(gy==null&&(car.airT>3||car.y<car.ty-10))failCar(car,s.gap?'Te langzaam van de schans':'Je viel in het niets',car.vy);}
  }
 }
 function progress(c){const M=track.M;return(c.lap-(c.j>=0?1:0))*M+c.j;}
@@ -856,6 +895,7 @@ function botInput(car,dt){
  const T=track;
  if(car.mode==='loop'){const want=clamp(car.lat*.08,-.3,.3);return{throttle:1,steer:clamp((car.relYaw-want)*4,-1,1),drift:false};}
  if(car.mode==='air')return{throttle:1,steer:0,drift:false};
+ if(car.off){const pA=sampleP(T.S,(car.nearJ||car.j)+8,T.M,T.D);const d=wrapA(Math.atan2(pA.x-car.pos.x,pA.z-car.pos.z)-car.yaw);return{throttle:1,steer:clamp(-d*3,-1,1),drift:false};}
  const sp=Math.max(car.speed,0);const ahead=Math.round(7+sp*.45);
  let sA=T.S[mod(car.j+ahead,T.M)],pA;
  if(sA.loop!=null){const lp=T.loops[sA.loop];const s0=T.S[lp.a];pA=sampleP(T.S,lp.a,T.M,T.D).addScaledVector(s0.tan,12);sA=s0;}
@@ -873,7 +913,7 @@ function botInput(car,dt){
 
 /* ---------- collisions ---------- */
 function collideCars(list){
- for(let i=0;i<list.length;i++)for(let k=i+1;k<list.length;k++){const a=list[i],b=list[k];if(a.state!=='run'||b.state!=='run')continue;if(a.mode==='loop'||b.mode==='loop')continue;if(!a.local&&!b.local)continue;
+ for(let i=0;i<list.length;i++)for(let k=i+1;k<list.length;k++){const a=list[i],b=list[k];if(a.state!=='run'||b.state!=='run')continue;if(a.mode==='loop'||b.mode==='loop'||a.inv>0||b.inv>0)continue;if(!a.local&&!b.local)continue;
   if(Math.abs(a.y-b.y)>1.6)continue;const dx=b.pos.x-a.pos.x,dz=b.pos.z-a.pos.z,d2=dx*dx+dz*dz,R=2.2;if(d2>R*R||d2<1e-6)continue;
   const d=Math.sqrt(d2),nx=dx/d,nz=dz/d,pen=R-d;
   if(a.local&&b.local){a.pos.x-=nx*pen/2;a.pos.z-=nz*pen/2;b.pos.x+=nx*pen/2;b.pos.z+=nz*pen/2;}else if(a.local){a.pos.x-=nx*pen;a.pos.z-=nz*pen;}else{b.pos.x+=nx*pen;b.pos.z+=nz*pen;}
@@ -900,7 +940,7 @@ function finishCar(car){car.state='fin';car.finT=race.t;
  if(car===myCar)showMsg(race.winner?'FINISH':'GEWONNEN!',race.winner?'Je bent binnen':'Jij was als eerste over de streep',2500);
  if(isAuth())registerFin(car.id,race.t);else sendHost({t:'fin',i:car.id,ft:race.t});}
 function registerFin(id,ft){if(!race||race.fin.find(f=>f.id===id))return;race.fin.push({id,ft});const c=race.cars.get(id);if(c){c.state='fin';c.finT=ft;}
- if(!race.winner){race.winner=id;announceWinner(id);broadcast({t:'win',i:id});race.endAt=race.t+8;}}
+ if(!race.winner){race.winner=id;announceWinner(id);broadcast({t:'win',i:id});race.endAt=race.t+15;}}
 function announceWinner(id){if(!race)return;race.winner=id;const c=race.cars.get(id);if(c&&c!==myCar){showMsg(c.name.toUpperCase(),'wint de race!',2600);}sfxWin();}
 function standings(){return race.list.slice().sort((a,b)=>{const fa=a.state==='fin',fb=b.state==='fin';if(fa&&fb)return a.finT-b.finT;if(fa)return -1;if(fb)return 1;
  const oa=a.state==='out'||a.state==='fall',ob=b.state==='out'||b.state==='fall';if(oa!==ob)return oa?1:-1;return progress(b)-progress(a);});}
@@ -921,9 +961,10 @@ function updateRace(dt){
  for(const car of race.list){
   if(car.local){let inp={throttle:0,steer:0,drift:false};if(race.t>=0&&!race.ended){if(car===myCar&&car.state==='run')inp=playerInput();else if(car.bot||car.state==='fin')inp=botInput(car,dt);}
    stepCar(car,inp,dt);
-   if((car.state==='run'||car.state==='fin')&&car.mode!=='loop'){trackFollow(car);
+   if(car.off&&car.mode==='ground'&&car.state==='run'){offroadFollow(car,dt);}
+   else if((car.state==='run'||car.state==='fin')&&car.mode!=='loop'){trackFollow(car);
     if(car.mode==='ground'&&car.state!=='fall'){
-     if(car.state==='run'&&Math.abs(car.lat)>track.hw+.25)failCar(car,'Je bent van de baan gereden',2);
+     if(car.state==='run'&&Math.abs(car.lat)>track.hw+.25)leaveTrack(car);
      else{if(car.state==='fin'&&Math.abs(car.lat)>track.hw-1){const s=track.S[mod(car.j,track.M)];const push=(Math.abs(car.lat)-(track.hw-1))*Math.sign(car.lat);car.pos.x-=s.r.x*push;car.pos.z-=s.r.z*push;}
       car.y+=(car.ty-car.y)*Math.min(1,dt*22);if(car.snap)car.y=car.ty;}}}}
   else remoteUpdate(car,dt);
@@ -943,7 +984,7 @@ function remoteUpdate(c,dt){const now=performance.now(),T=c.tgt;const age=Math.m
  const tx=T.x+T.vx*age,tz=T.z+T.vz*age;
  if(Math.hypot(tx-c.pos.x,tz-c.pos.z)>8||c.snap){c.pos.set(tx,0,tz);c.y=T.y;c.yaw=T.r;c.snap=false;}else{c.pos.x+=(tx-c.pos.x)*k;c.pos.z+=(tz-c.pos.z)*k;c.y+=(T.y-c.y)*k;c.yaw+=wrapA(T.r-c.yaw)*k;}
  c.vel.set(T.vx,0,T.vz);if(c.state==='fall')c.spin+=dt*6;}
-function updateCarMesh(c,dt){const m=c.mesh;m.visible=c.state!=='out';m.position.set(c.pos.x,c.y,c.pos.z);
+function updateCarMesh(c,dt){const m=c.mesh;m.visible=c.state!=='out'&&!(c.inv>0&&Math.floor(c.inv*10)%2===1);m.position.set(c.pos.x,c.y,c.pos.z);
  const fwd=Math.sin(c.yaw)*c.vel.x+Math.cos(c.yaw)*c.vel.z;const lat=-Math.cos(c.yaw)*c.vel.x+Math.sin(c.yaw)*c.vel.z;
  if(c.state!=='fall'&&c.mode==='loop'&&c.LF){const F=c.LF;_m4.makeBasis(F.R.clone().negate(),F.U,F.T);m.quaternion.setFromRotationMatrix(_m4);_q.setFromAxisAngle(_Y,c.relYaw||0);m.quaternion.multiply(_q);}
  else{m.rotation.set(0,c.yaw,0);
@@ -991,7 +1032,7 @@ function updateCamera(dt){
 const keys={};const touch={};const isTouch=matchMedia('(pointer:coarse)').matches;
 addEventListener('keydown',e=>{if(e.target.tagName==='INPUT'&&e.target.type==='text')return;keys[e.code]=true;
  if(['ArrowUp','ArrowDown','ArrowLeft','ArrowRight','Space'].includes(e.code)&&race)e.preventDefault();
- if(e.code==='KeyC'&&race)toggleCam();if(e.code==='KeyM')toggleMute();
+ if(e.code==='KeyC'&&race)toggleCam();if(e.code==='KeyR'&&race&&myCar&&myCar.state==='run'&&(myCar.off||myCar.mode==='air')){myCar.why='Terug naar de baan';respawnCar(myCar,'TERUG!');}if(e.code==='KeyM')toggleMute();
  if(e.code==='Escape'&&race){if(!online()||race.ended){leaveRace();}else{if(race.escT&&performance.now()-race.escT<2000)leaveRace();else{race.escT=performance.now();toast('Druk nog eens op Esc om de race te verlaten');}}}});
 addEventListener('keyup',e=>{keys[e.code]=false;});addEventListener('blur',()=>{for(const k in keys)keys[k]=false;});
 addEventListener('wheel',e=>{if(!race)return;zoomMul=clamp(zoomMul*(e.deltaY>0?1.08:1/1.08),.45,2.2);},{passive:true});
@@ -1105,7 +1146,7 @@ function refreshRoom(){const inR=!!NET.peer;showRoomUI(inR);
  $('#roomInfo').textContent=!NET.inRoom?$('#roomInfo').textContent:(auth?`${lobby.players.length}/4 spelers. Geef je vrienden de code; zij openen dit bestand en klikken op Meedoen.`:`Wacht tot de host start · ${LEVELS[lobby.level].name} · ${lobby.laps} ${lobby.laps>1?'rondes':'ronde'}`);
  document.querySelectorAll('.lv').forEach(b=>{b.setAttribute('aria-pressed',String(+b.dataset.i===lobby.level));b.disabled=!auth;});
  $('#laps').value=String(lobby.laps);$('#laps').disabled=!auth;$('#bots').checked=lobby.bots;$('#bots').disabled=!auth;}
-const lvBox=$('#levels');LEVELS.forEach((L,i)=>{const b=document.createElement('button');b.className='lv lv-'+L.key;b.dataset.i=i;b.innerHTML=`<i></i><b>${L.name}</b><small>${[L.jumps?L.jumps+(L.jumps>1?' schansen':' schans'):'',L.loops?L.loops+(L.loops>1?' loopings':' looping'):''].filter(Boolean).join(' · ')||'Alleen scherpe bochten'}</small>`;b.addEventListener('click',()=>{if(!isAuth())return;lobby.level=i;LS.set('bb_level',i);loadLevel(i);broadcastLobby();refreshRoom();});lvBox.appendChild(b);});
+const lvBox=$('#levels');LEVELS.forEach((L,i)=>{const b=document.createElement('button');b.className='lv lv-'+L.key;b.dataset.i=i;b.innerHTML=`<i></i><b>${L.name}</b><small>${L.gp} · ${[L.jumps?L.jumps+(L.jumps>1?' schansen':' schans'):'',L.loops?L.loops+(L.loops>1?' loopings':' looping'):''].filter(Boolean).join(' · ')||'Alleen scherpe bochten'}</small>`;b.addEventListener('click',()=>{if(!isAuth())return;lobby.level=i;LS.set('bb_level',i);loadLevel(i);broadcastLobby();refreshRoom();});lvBox.appendChild(b);});
 $('#laps').addEventListener('change',e=>{lobby.laps=+e.target.value;broadcastLobby();});
 $('#bots').addEventListener('change',e=>{lobby.bots=e.target.checked;broadcastLobby();});
 const sw=$('#swatches');COLORS.forEach(c=>{const b=document.createElement('button');b.className='sw';b.style.background=c;b.setAttribute('aria-label','Kleur '+c);b.setAttribute('aria-pressed',String(c===me.color));

diff --git a/README.md b/README.md
@@ -1,17 +1,21 @@
 # Buro Bolides
 
-Racen met speelgoedautootjes over je bureau. Spring over koffiekoppen, rijd loopings van een buigbare liniaal en duw elkaar van de baan. Wie van de baan rijdt is af, wie het eerst over de streep komt wint.
+Racen met speelgoedautootjes over je bureau, op banen die gebaseerd zijn op beroemde Grand Prix-circuits. Spring over koffiekoppen, rijd loopings van een buigbare liniaal en duw elkaar van de baan. Wie het eerst over de streep komt wint.
 
 **Spelen:** https://endless1977.github.io/Buro_Bolides/
 
-![Een looping van een buigbare liniaal op Het Bureau](screenshots/02-bureau-looping.png)
+![Een looping van een buigbare liniaal op Monza](screenshots/02-monza-looping.png)
 
 ## Wat zit erin
 
-- **8 banen**, elk met een eigen thema en flink langer dan eerst: een ronde duurt 15 tot 35 seconden
+- **8 banen** naar echte circuits, elk met een eigen thema en een eigen twist. Een ronde duurt ongeveer 50 seconden
 - **Schansen:** een gat in de baan met een kicker ervoor. Neem je hem te traag, dan val je erin
 - **Loopings:** met genoeg vaart kom je er rond; te langzaam en je valt er bovenin uit
+- **Kruisingen:** op Suzuka en Silverstone gaat de baan via een brug over zichzelf heen
+- **Hoogteverschillen:** klimmen naar de Raidillon, afdalen langs de Scheivlak
 - **Boostpads** (oranje pijlen) vlak voor elke looping
+- **Naast de baan is niet af:** je rijdt langzaam verder over het bureau, de vloer of het tafelkleed en kunt terug de baan op rijden. Staat de baan te hoog, dan brengt **R** je terug; na een paar seconden gebeurt dat vanzelf. Afsnijden telt niet: dan ga je terug naar waar je de baan verliet
+- **Afgronden:** alleen waar echt niets is (de rand van het bureau, de Escher-trap) val je naar beneden en kom je achter de plek waar het misging terug op de baan. Die achterstand is je straf
 - **Botsen en duwen:** met de handrem drift je tegen anderen aan
 - **Anamorfe camera:** een vaste schuine blik als bij een diorama. De Escher-trap klopt alleen vanuit die hoek
 - **Online multiplayer** voor maximaal 4 spelers, lege plekken worden bots
@@ -19,29 +23,29 @@ Racen met speelgoedautootjes over je bureau. Spring over koffiekoppen, rijd loop
 
 ## De banen
 
-| Baan | Thema | Schansen | Loopings |
-|---|---|:-:|:-:|
-| Het Bureau | Liniaal, gum, rekenmachine, plakband, dambord, krant | 1 | 1 |
-| Psychedelica | Achtvormige baan in steeds wisselende kleuren, met zwevende ogen en knopen | 1 | 1 |
-| Smeltende Tijd | Dalí-woestijn met smeltende klokken en een staande klok met slinger | 1 | – |
-| Onmogelijke Trappen | Escher-trap die eindeloos omhoog loopt | 1 | – |
-| Toetsenbord | Toetsen, muismat, kabel en een muis | 2 | 1 |
-| Tekentafel | Snijmat, blauwdruk, passer en loopings van een rolmaat | 1 | 2 |
-| Archiefkast | Hoge baan op stapels ordners, met een nietmachine als schans | 3 | – |
-| Koffiepauze | Stroopwafels, koekjes en suikerklontjes, met een sprong over een koffiekop | 2 | 1 |
+| Baan | Circuit | Twist | Schansen | Loopings |
+|---|---|---|:-:|:-:|
+| Het Bureau | Monza | Looping op het rechte stuk, schans op de Serraglio, verhoogde Parabolica | 1 | 1 |
+| Psychedelica | Suzuka | De achtvorm met een sprong precies boven de kruising | 1 | 1 |
+| Smeltende Tijd | Monaco | De staande klok is de tunnel; schans bij het zwembad over een smeltende klok | 1 | – |
+| Onmogelijke Trappen | Penrose-trap | Eindeloos omhoog, alleen kloppend in de anamorfe blik | 1 | – |
+| Toetsenbord | Silverstone | De Hangar Straight is een brug over Wellington én start/finish | 1 | 1 |
+| Tekentafel | Spa-Francorchamps | Sprong over de top van de Raidillon, loopings op Kemmel en Blanchimont | 1 | 2 |
+| Archiefkast | Interlagos | Hoog op ordnertorens, met een nietmachine als schans | 3 | – |
+| Koffiepauze | Zandvoort | Sprong over een koffiekop, looping van een lepel, Hunserug als achtbaan | 2 | 1 |
 
 ## Screenshots
 
 | | |
 |---|---|
-| ![Menu met de acht banen](screenshots/01-menu.png) | ![Sprong over een koffiekop](screenshots/03-koffiepauze-schans.png) |
-| Menu met garage en baankeuze | Koffiepauze: sprong over de koffiekop |
-| ![Sprong tussen ordners](screenshots/04-archiefkast-schans.png) | ![Sprong over de kruising](screenshots/05-psychedelica.png) |
-| Archiefkast: sprong tussen de ordners | Psychedelica: sprong over de onderdoorgang |
-| ![Looping op de muismat](screenshots/06-toetsenbord-looping.png) | ![Looping van een rolmaat](screenshots/07-tekentafel.png) |
-| Toetsenbord: looping op de muismat | Tekentafel: looping van een rolmaat |
-| ![Staande klok met slinger](screenshots/08-smeltende-tijd.png) | ![Escher-trap](screenshots/09-onmogelijke-trappen.png) |
-| Smeltende Tijd: de slinger slaat je opzij | Onmogelijke Trappen: schans op de trap |
+| ![Menu met de acht banen](screenshots/01-menu.png) | ![Sprong over een koffiekop](screenshots/03-zandvoort-koffiekop.png) |
+| Menu met garage en baankeuze | Zandvoort: sprong over de koffiekop |
+| ![Sprong tussen ordners](screenshots/04-interlagos-ordners.png) | ![Sprong boven de kruising](screenshots/05-suzuka-kruising.png) |
+| Interlagos: sprong tussen de ordners | Suzuka: sprong boven de kruising |
+| ![Brug over de baan](screenshots/06-silverstone-flyover.png) | ![Looping van een rolmaat](screenshots/07-spa-kemmel-looping.png) |
+| Silverstone: de Hangar Straight als brug | Spa: looping van een rolmaat op Kemmel |
+| ![De staande klok als tunnel](screenshots/08-monaco-tunnel.png) | ![Escher-trap](screenshots/09-onmogelijke-trappen.png) |
+| Monaco: de staande klok is de tunnel | Onmogelijke Trappen: schans op de trap |
 | ![Camera achter de auto in een looping](screenshots/10-camera-in-looping.png) | ![Uitslag](screenshots/11-uitslag.png) |
 | Camera achter de auto, midden in een looping | Uitslag na de race |
 
@@ -54,6 +58,7 @@ Racen met speelgoedautootjes over je bureau. Spring over koffiekoppen, rijd loop
 | ← → / A D | Sturen |
 | Spatie | Handrem: driften en duwen |
 | C | Wisselen tussen de anamorfe blik en de camera achter de auto |
+| R | Naast de baan: terug op de baan |
 | M | Geluid aan of uit |
 | Scroll | Inzoomen |
 | Esc | Race verlaten |
